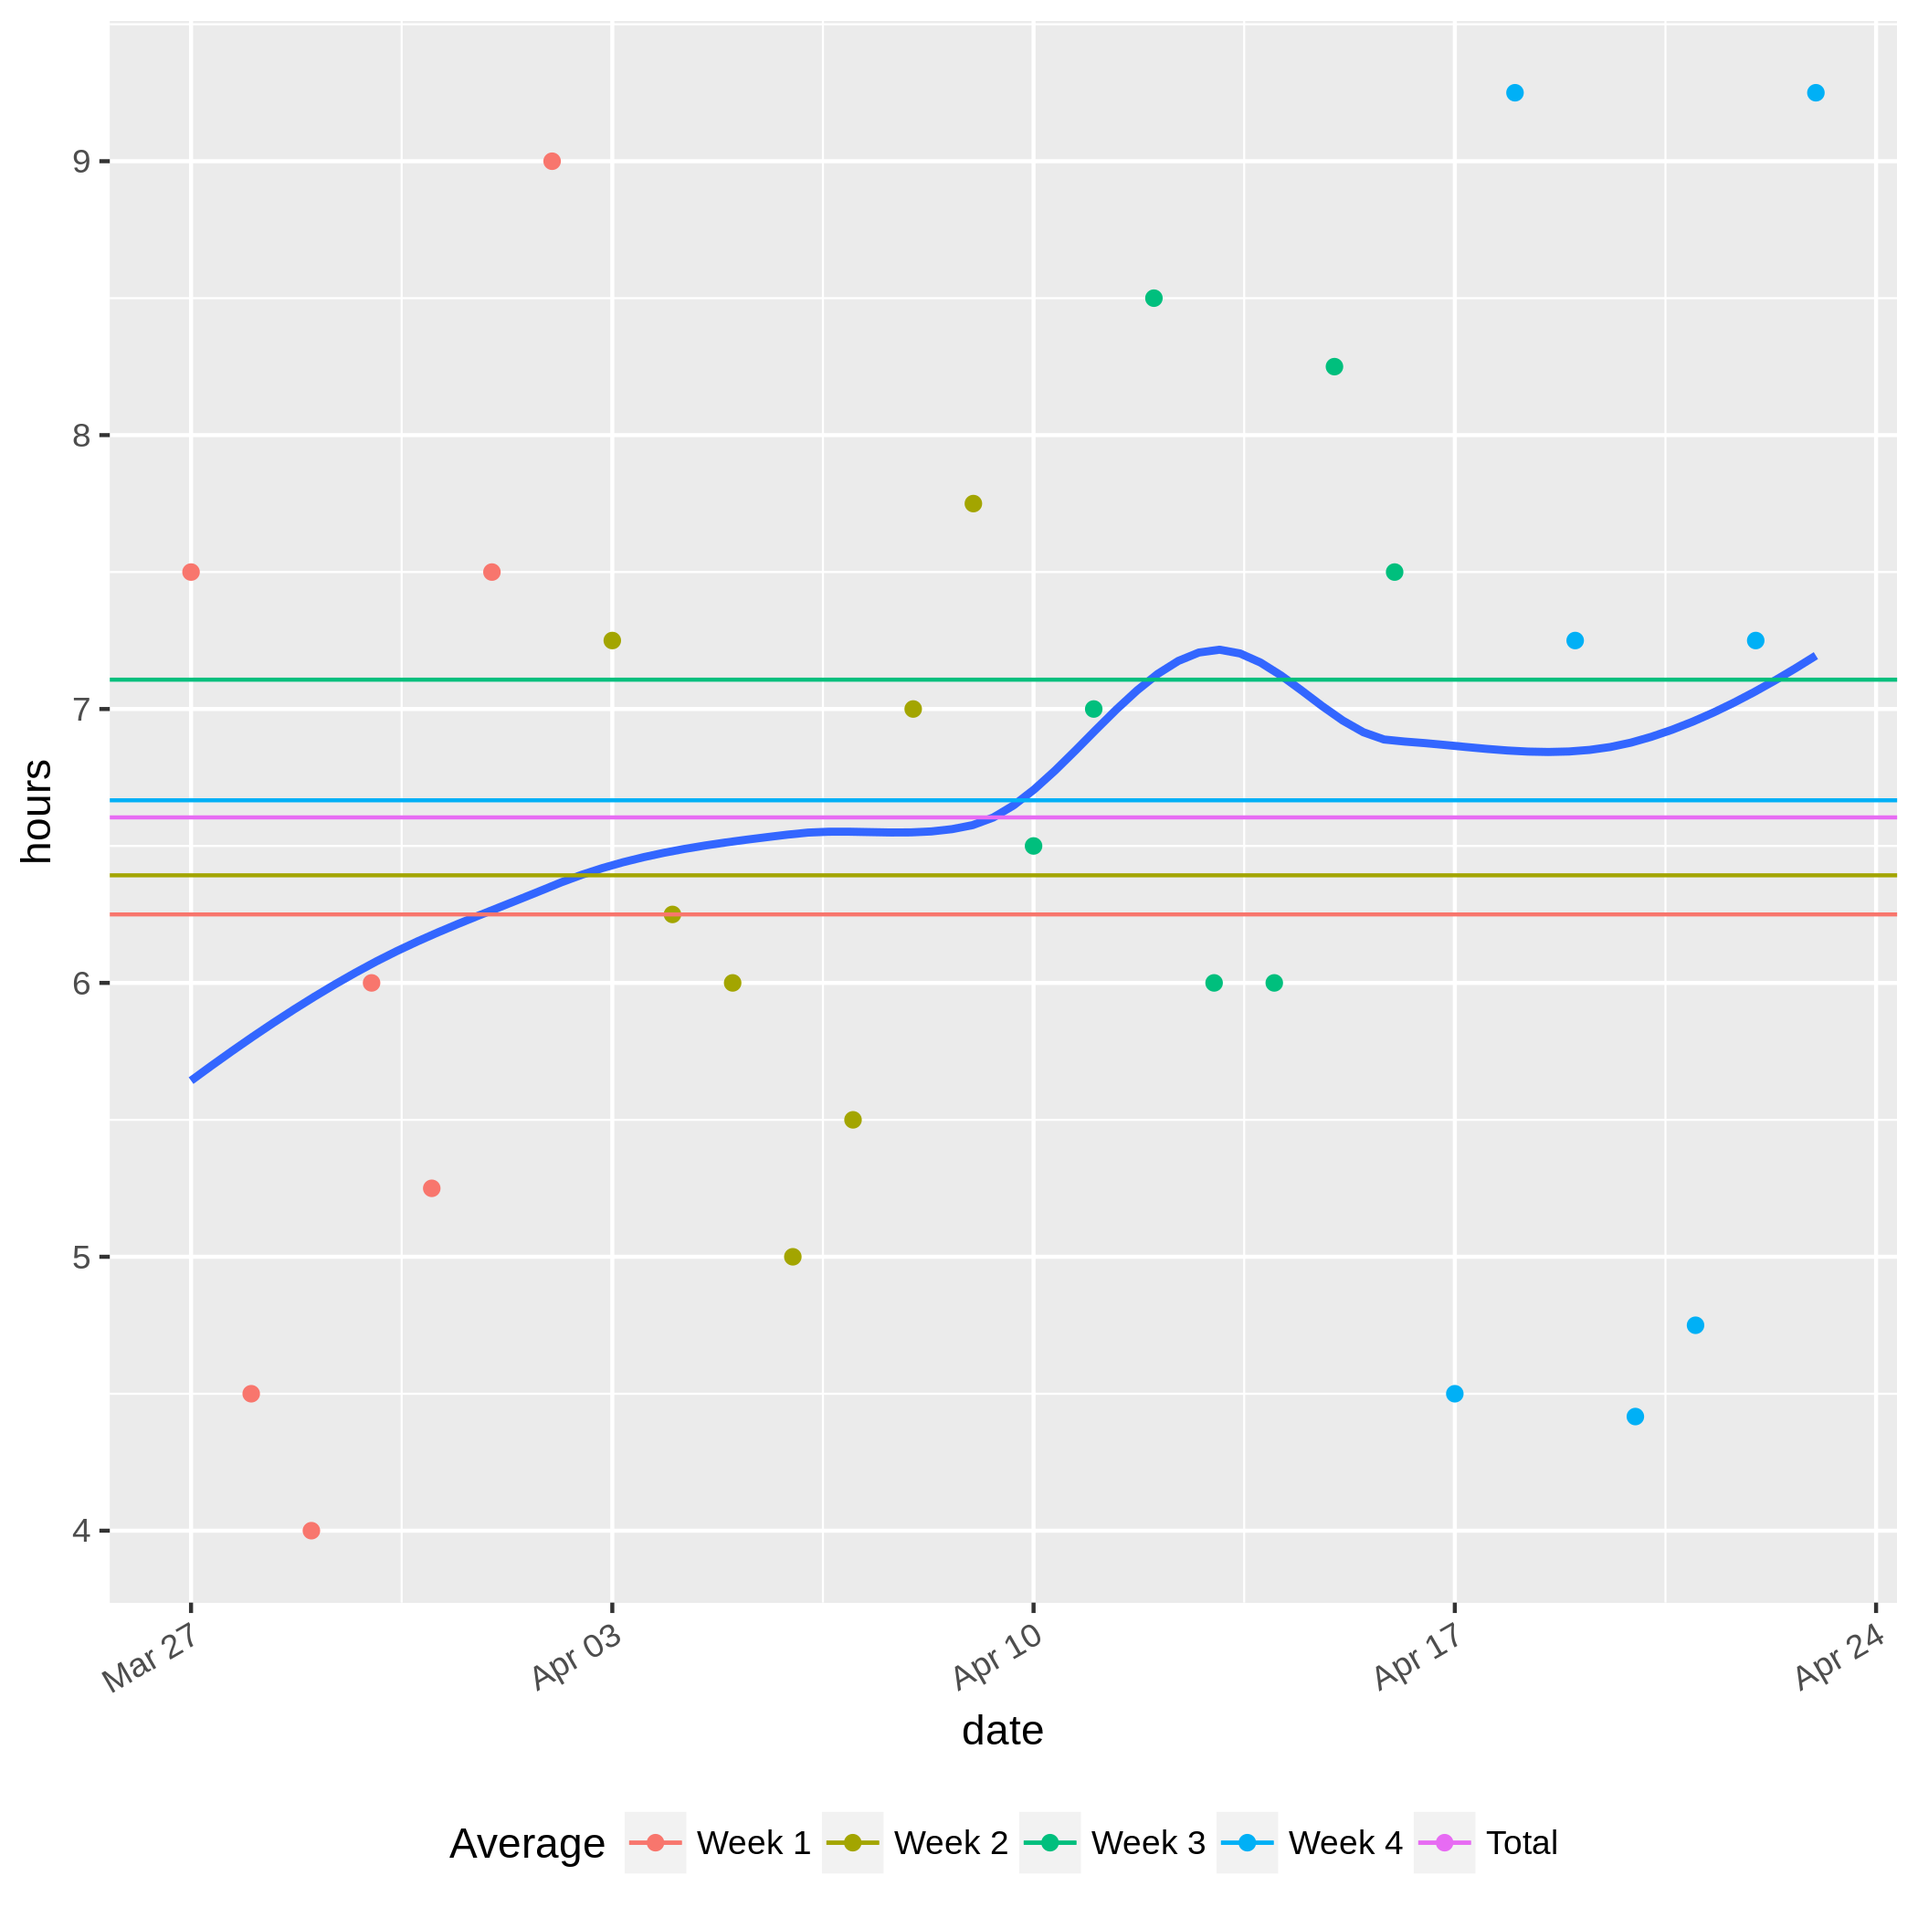
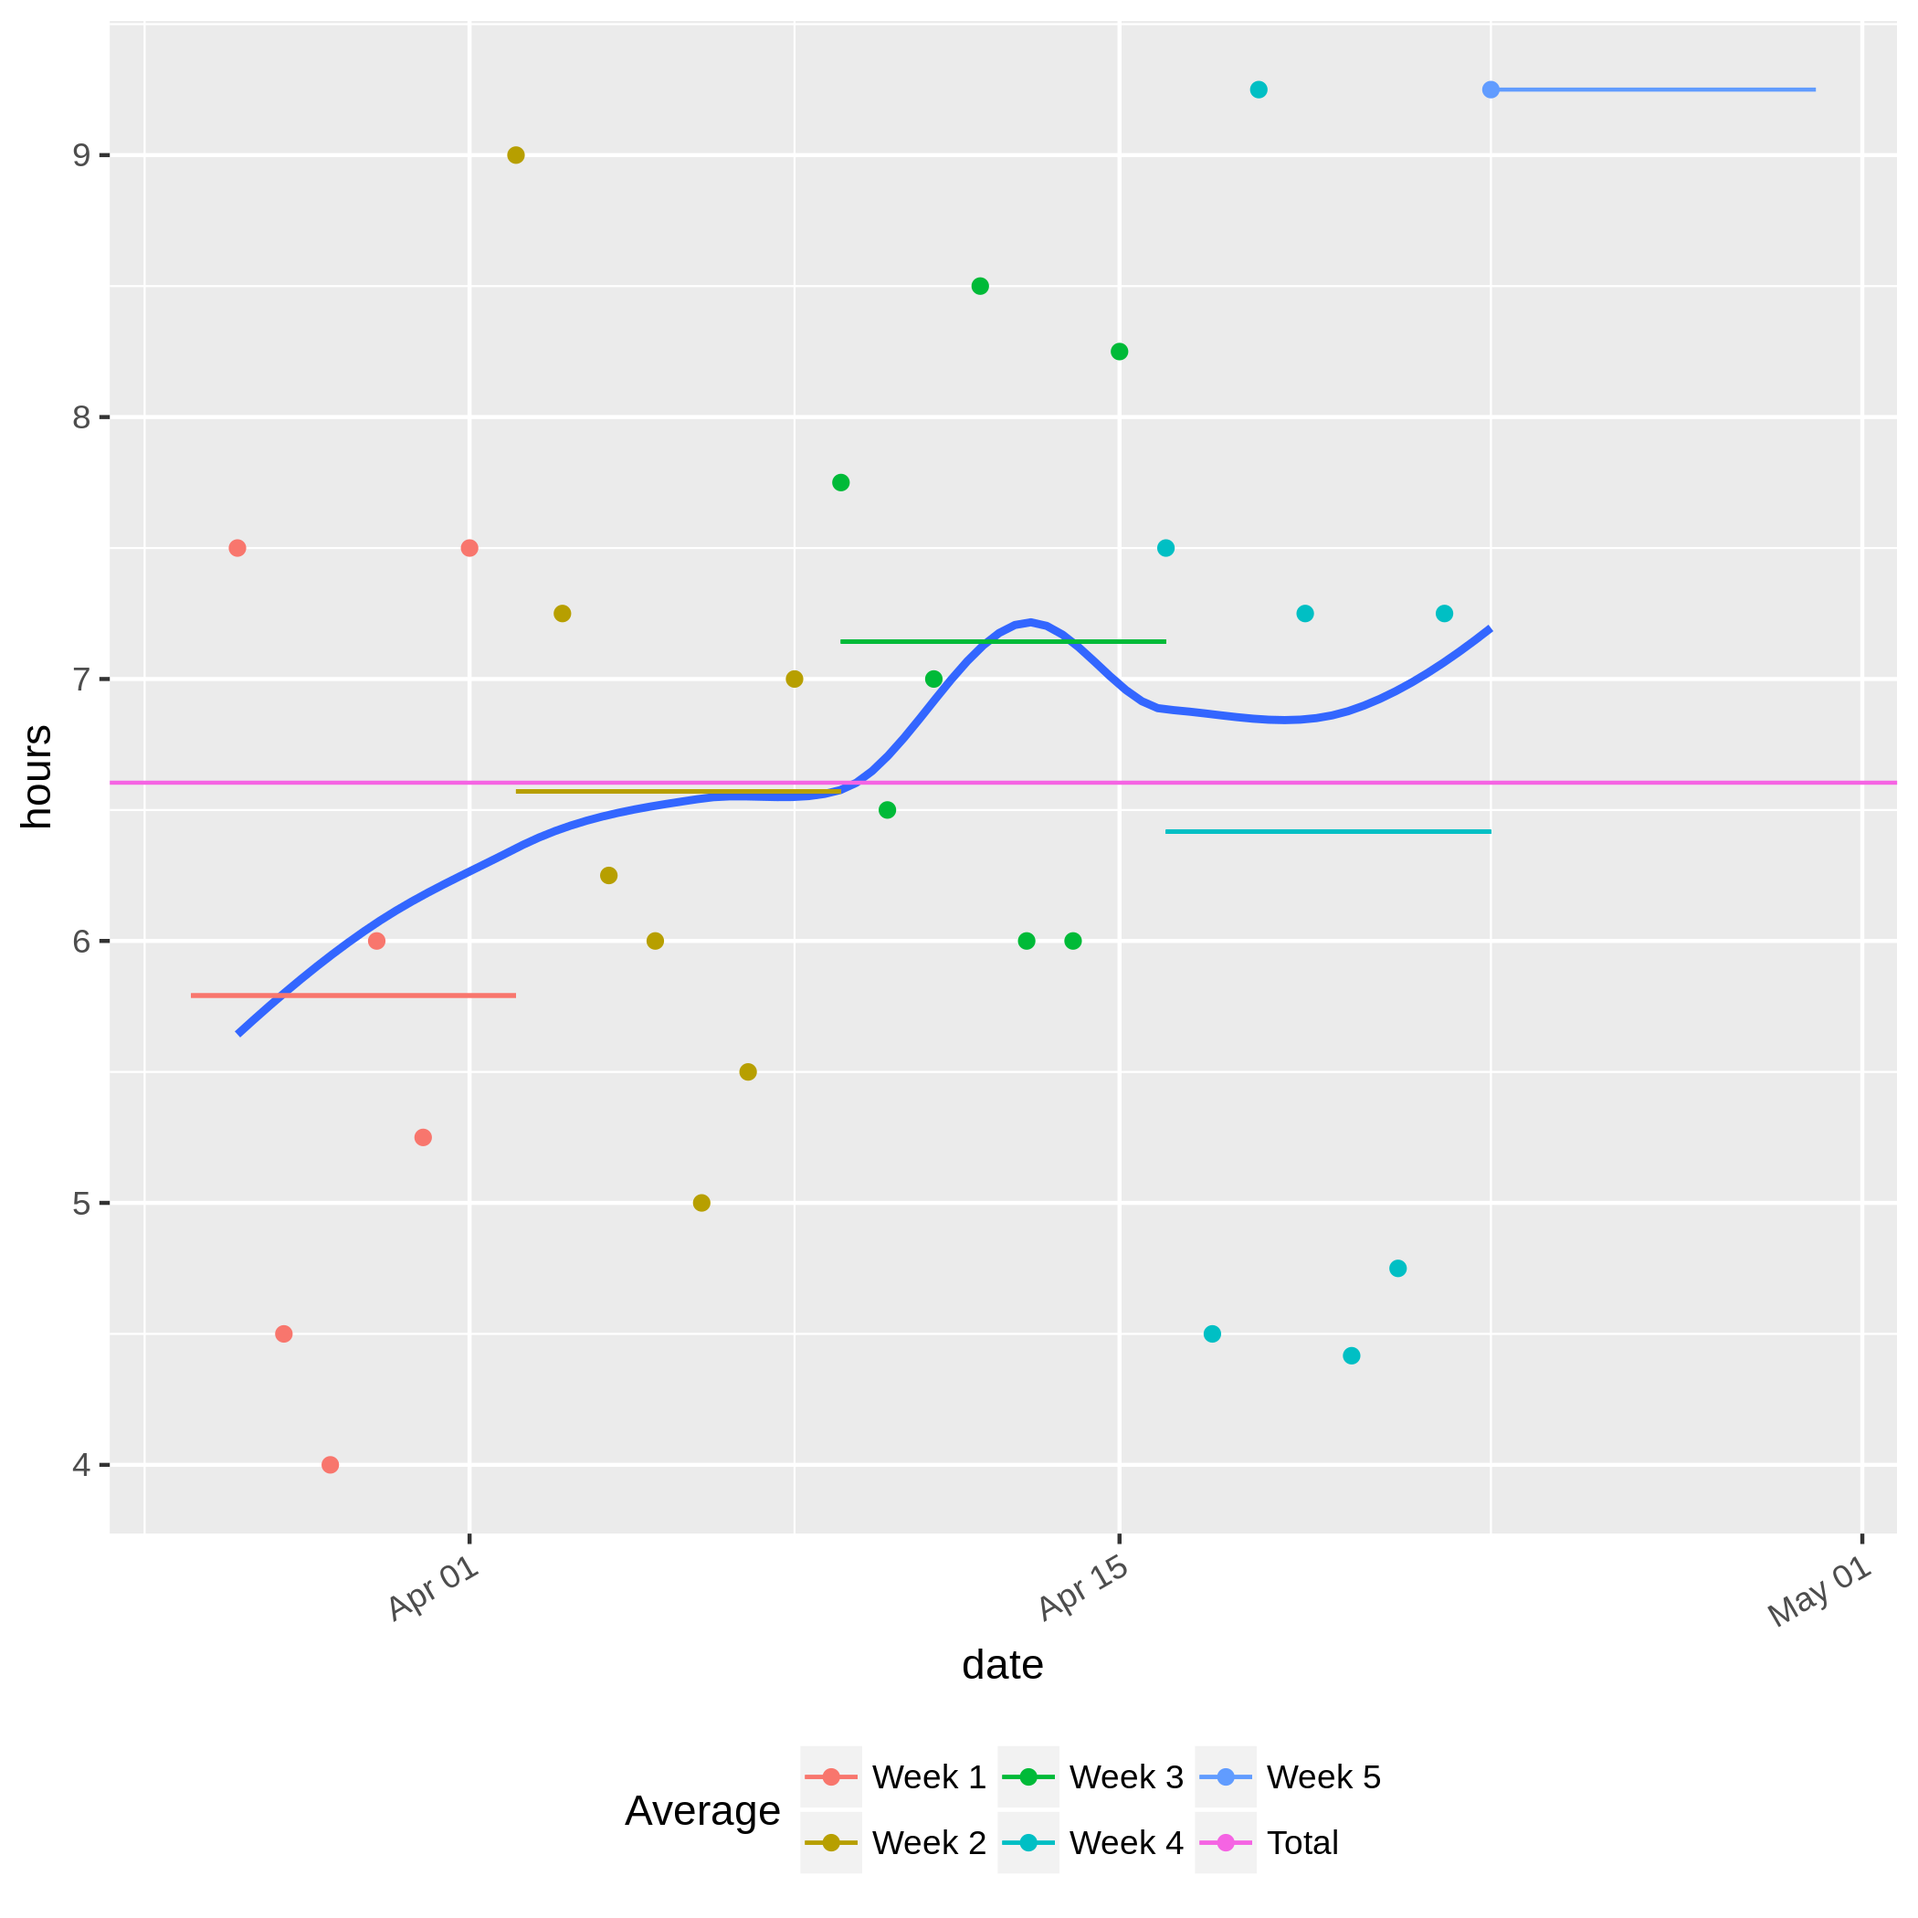
README.md: update to reflect changes

diff --git a/README.md b/README.md
@@ -3,7 +3,8 @@ Visualize the amount of time spent on an activity.
 
 ## Dependencies
 
-Requires R, and the [ggplot2 library](https://github.com/tidyverse/ggplot2).
+Requires R, the [tidyverse](https://github.com/tidyverse/tidyverse), and
+[argparse](https://github.com/trevorld/argparse).
 
 ## Usage
 
@@ -28,7 +29,7 @@ when it is longer.
 ### averages.png
 
 Plots each point in the CSV, calculating duration as `end - start`.
-Draws a smooth trend line through the points, and adds horizontal lines
+Draws a smooth trend line through the points, and adds horizontal line segments
 representing the average for each week.
 A horizontal line representing the average over all weeks is also drawn.
 
@@ -36,7 +37,8 @@ A horizontal line representing the average over all weeks is also drawn.
 
 `example.csv` includes data representing the amount of time spent sleeping on a
 given day, relative to midnight.
-For instance, on March 27, the user went to sleep at 23:00 and woke up at 06:30 the following day.
+For instance, on March 27, the user went to sleep at 23:00 and woke up at 06:30
+the following day.
 The plots for this set of data are shown below (click to enlarge):
 
 <p float="left">
